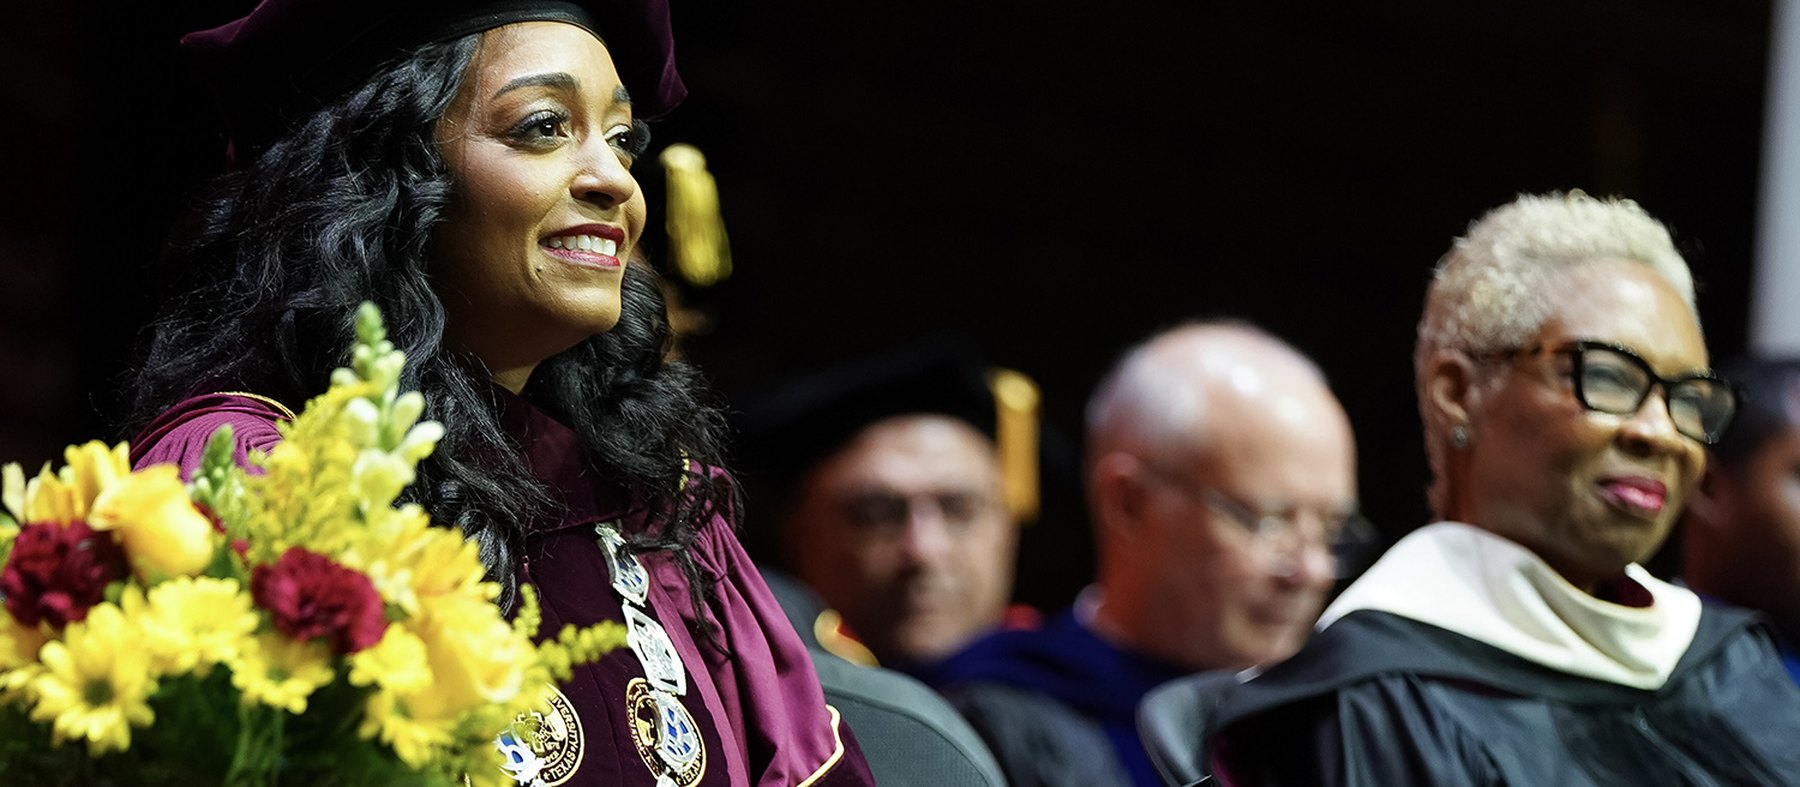
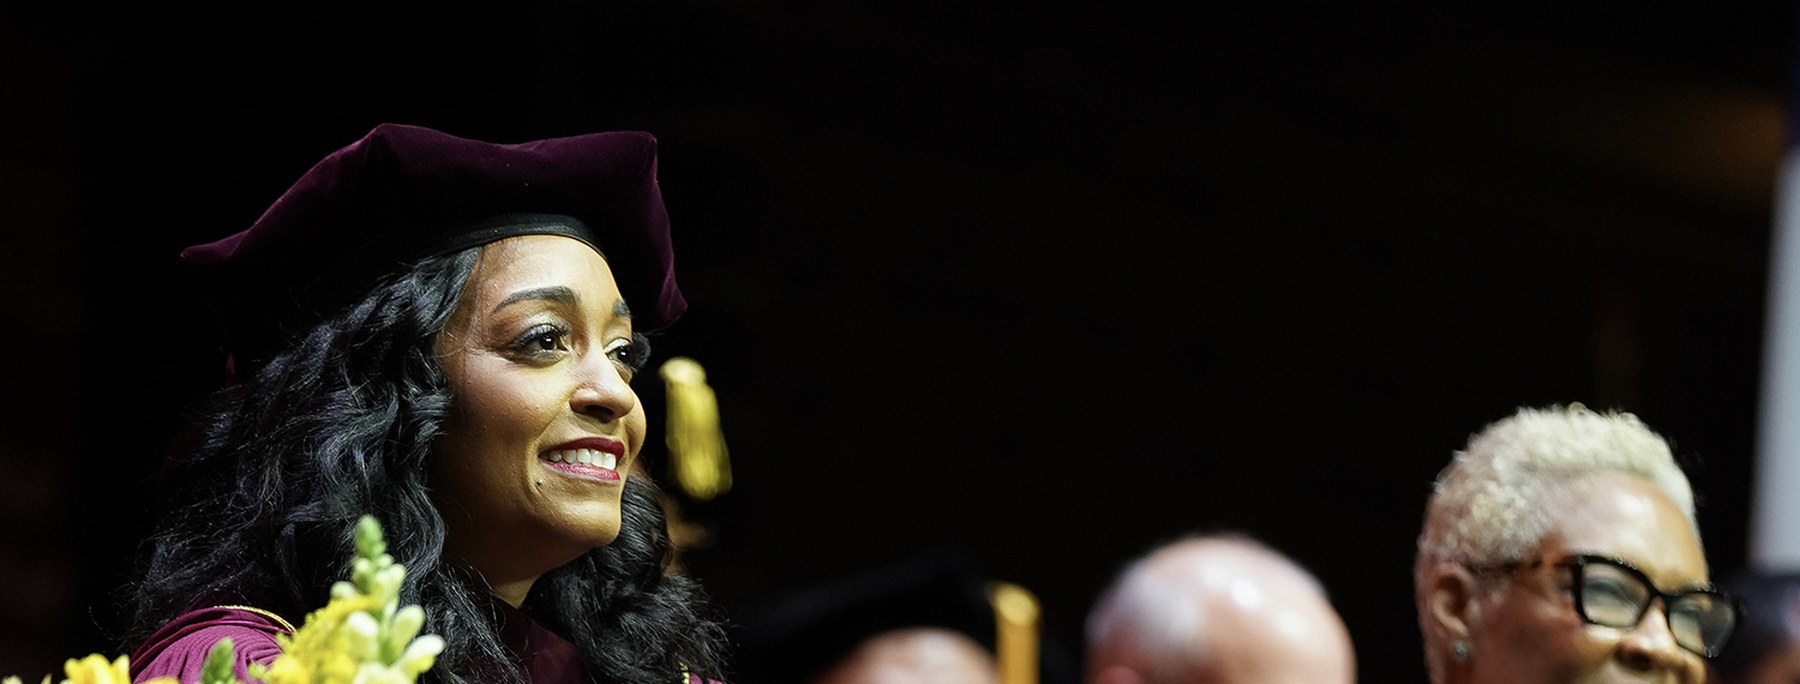
Remove background lettering, recrop the cover so she is not beheaded

diff --git a/index.html b/index.html
@@ -25,7 +25,6 @@
   --ease:cubic-bezier(.23,1,.32,1);
 
   /* one scale, ratios: ghost/display 2.9, display/head 2.09, head/sub 2.10, sub/body 1.46 */
-  --t-ghost:  clamp(4.5rem,22vw,21rem);
   --t-display:clamp(3.2rem,7.6vw,6.8rem);
   --t-head:   clamp(2rem,3.6vw,3.25rem);
   --t-sub:    clamp(1.25rem,1.6vw,1.55rem);
@@ -65,24 +64,17 @@ p:last-child{margin-bottom:0}
 section{position:relative;overflow:hidden;padding:var(--pv) var(--pad)}
 .wrap{max-width:1240px;margin:0 auto;position:relative;z-index:3}
 
-/* the monogram pattern lives in exactly two places, at two extreme scales */
-.pat-xl{position:absolute;inset:0;z-index:0;pointer-events:none;opacity:.05;
-  background:url("images/monogram-tile.png") center/900px auto repeat}
-
 /* ============ the house editorial spread ============
    oversized tone-on-tone word cut by one edge, full-bleed photo floated over it,
    white serif line centred on the image, monogram top centre, wordmark bottom centre. */
 .spread{--pv:clamp(3.4rem,8vh,5.5rem);background:var(--mahogany);color:var(--sand)}
-.ghost{position:absolute;z-index:1;font-family:var(--serif);font-weight:700;
-  font-size:var(--t-ghost);line-height:.72;letter-spacing:-.05em;white-space:nowrap;
-  color:rgba(255,250,235,.07);pointer-events:none;user-select:none}
 .mono-top{position:absolute;top:clamp(1rem,2.4vh,1.7rem);left:50%;transform:translateX(-50%);
   z-index:4;height:26px;width:auto;opacity:.9}
 .mark-bottom{position:absolute;bottom:clamp(1rem,2.4vh,1.7rem);left:50%;transform:translateX(-50%);
   z-index:4;height:24px;width:auto}
 .bleed{position:relative;z-index:2;width:calc(100% + 2 * var(--pad));
   margin-inline:calc(-1 * var(--pad));overflow:hidden}
-.bleed img{width:100%;height:100%;object-fit:cover}
+.bleed img{width:100%;height:100%;object-fit:cover;object-position:center 18%}
 .bleed figcaption{
   position:absolute;inset:0;display:grid;align-items:end;justify-items:center;
   padding:0 1.6rem clamp(1.6rem,4vw,3rem);text-align:center;
@@ -91,11 +83,10 @@ section{position:relative;overflow:hidden;padding:var(--pv) var(--pad)}
 }
 
 /* ---------- 1. cover ---------- */
-.cover .ghost{right:-6%;top:1.5%}
-.cover-head{position:relative;z-index:3;padding-top:clamp(1.6rem,4vh,2.6rem)}
+.cover .cover-head{position:relative;z-index:3;padding-top:clamp(1.6rem,4vh,2.6rem)}
 .cover h1{max-width:19ch}
 .cover h1 em{font-style:normal;color:var(--gold)}
-.cover-bleed{height:clamp(250px,32vw,430px);margin-top:clamp(1.6rem,4vh,2.6rem)}
+.cover-bleed{height:clamp(265px,34vw,505px);margin-top:clamp(1.6rem,4vh,2.6rem)}
 .cover-meta{position:relative;z-index:3;margin:clamp(1.2rem,3vh,1.9rem) 0 clamp(2.2rem,5vh,3.2rem);
   text-align:center;color:rgba(255,250,235,.62)}
 .cover-meta b{color:var(--gold)}
@@ -131,9 +122,7 @@ section{position:relative;overflow:hidden;padding:var(--pv) var(--pad)}
 .three-grid{display:grid;grid-template-columns:repeat(3,minmax(0,1fr));
   gap:clamp(1rem,2.4vw,2rem);margin-top:clamp(2rem,5vw,3rem)}
 .thing figure{position:relative;overflow:hidden;aspect-ratio:4/5;
-  border:1px solid rgba(102,1,0,.18);background:var(--sand)}
-.thing figure::before{content:"";position:absolute;inset:0;opacity:.07;
-  background:url("images/monogram-tile-maroon.png") center/120px auto repeat}
+  border:1px solid rgba(102,1,0,.18);background:#F6EFDD}
 .thing img{position:absolute;inset:0;width:100%;height:100%;object-fit:contain;padding:7%;
   transition:transform 1s var(--ease)}
 .thing figure.crop img{object-fit:cover;padding:0}
@@ -143,8 +132,7 @@ section{position:relative;overflow:hidden;padding:var(--pv) var(--pad)}
 
 /* ---------- 5. caesura ---------- */
 .caesura{--pv:clamp(2.4rem,6vh,4rem);background:var(--terra);color:var(--sand)}
-.caesura .ghost{left:-6%;bottom:1%}
-.caesura .bleed{height:clamp(300px,38vw,540px)}
+.caesura .caesura .bleed{height:clamp(300px,38vw,540px)}
 
 /* ---------- 6. the term ---------- */
 .term{--pv:clamp(4.6rem,12vh,8rem);background:var(--mahogany)}
@@ -254,7 +242,6 @@ html.no-js .rv{opacity:1;transform:none}
 }
 @media (max-width:640px){
   .three-grid{grid-template-columns:minmax(0,1fr)}
-  .pat-xl{background-size:420px auto}
   .cover-bleed{height:265px}
   .caesura .bleed{height:250px}
   .bleed figcaption{font-size:1.02rem;padding-bottom:1.05rem}
@@ -272,8 +259,6 @@ if(new URLSearchParams(location.search).has('static'))document.documentElement.c
 
 <!-- 1. COVER, house editorial spread -->
 <section class="spread cover">
-  <div class="pat-xl"></div>
-  <div class="ghost" aria-hidden="true">PRESIDENT</div>
   <img class="mono-top" src="images/ht-monogram-gold.png" alt="">
   <div class="wrap cover-head">
     <h1 class="display rv">No more<br><em>regrets</em>.</h1>
@@ -364,7 +349,6 @@ if(new URLSearchParams(location.search).has('static'))document.documentElement.c
 
 <!-- 5. CAESURA, house editorial spread -->
 <section class="spread caesura">
-  <div class="ghost" aria-hidden="true">PRESENCE</div>
   <img class="mono-top" src="images/ht-monogram-gold.png" alt="">
   <figure class="bleed rv">
     <img src="images/film-spread.jpg" alt="A graduate being hooded at commencement, hands pressed together">

diff --git a/proposal.html b/proposal.html
@@ -25,7 +25,6 @@
   --ease:cubic-bezier(.23,1,.32,1);
 
   /* one scale, ratios: ghost/display 2.9, display/head 2.09, head/sub 2.10, sub/body 1.46 */
-  --t-ghost:  clamp(4.5rem,22vw,21rem);
   --t-display:clamp(3.2rem,7.6vw,6.8rem);
   --t-head:   clamp(2rem,3.6vw,3.25rem);
   --t-sub:    clamp(1.25rem,1.6vw,1.55rem);
@@ -65,24 +64,17 @@ p:last-child{margin-bottom:0}
 section{position:relative;overflow:hidden;padding:var(--pv) var(--pad)}
 .wrap{max-width:1240px;margin:0 auto;position:relative;z-index:3}
 
-/* the monogram pattern lives in exactly two places, at two extreme scales */
-.pat-xl{position:absolute;inset:0;z-index:0;pointer-events:none;opacity:.05;
-  background:url("images/monogram-tile.png") center/900px auto repeat}
-
 /* ============ the house editorial spread ============
    oversized tone-on-tone word cut by one edge, full-bleed photo floated over it,
    white serif line centred on the image, monogram top centre, wordmark bottom centre. */
 .spread{--pv:clamp(3.4rem,8vh,5.5rem);background:var(--mahogany);color:var(--sand)}
-.ghost{position:absolute;z-index:1;font-family:var(--serif);font-weight:700;
-  font-size:var(--t-ghost);line-height:.72;letter-spacing:-.05em;white-space:nowrap;
-  color:rgba(255,250,235,.07);pointer-events:none;user-select:none}
 .mono-top{position:absolute;top:clamp(1rem,2.4vh,1.7rem);left:50%;transform:translateX(-50%);
   z-index:4;height:26px;width:auto;opacity:.9}
 .mark-bottom{position:absolute;bottom:clamp(1rem,2.4vh,1.7rem);left:50%;transform:translateX(-50%);
   z-index:4;height:24px;width:auto}
 .bleed{position:relative;z-index:2;width:calc(100% + 2 * var(--pad));
   margin-inline:calc(-1 * var(--pad));overflow:hidden}
-.bleed img{width:100%;height:100%;object-fit:cover}
+.bleed img{width:100%;height:100%;object-fit:cover;object-position:center 18%}
 .bleed figcaption{
   position:absolute;inset:0;display:grid;align-items:end;justify-items:center;
   padding:0 1.6rem clamp(1.6rem,4vw,3rem);text-align:center;
@@ -91,11 +83,10 @@ section{position:relative;overflow:hidden;padding:var(--pv) var(--pad)}
 }
 
 /* ---------- 1. cover ---------- */
-.cover .ghost{right:-6%;top:1.5%}
-.cover-head{position:relative;z-index:3;padding-top:clamp(1.6rem,4vh,2.6rem)}
+.cover .cover-head{position:relative;z-index:3;padding-top:clamp(1.6rem,4vh,2.6rem)}
 .cover h1{max-width:19ch}
 .cover h1 em{font-style:normal;color:var(--gold)}
-.cover-bleed{height:clamp(250px,32vw,430px);margin-top:clamp(1.6rem,4vh,2.6rem)}
+.cover-bleed{height:clamp(265px,34vw,505px);margin-top:clamp(1.6rem,4vh,2.6rem)}
 .cover-meta{position:relative;z-index:3;margin:clamp(1.2rem,3vh,1.9rem) 0 clamp(2.2rem,5vh,3.2rem);
   text-align:center;color:rgba(255,250,235,.62)}
 .cover-meta b{color:var(--gold)}
@@ -131,9 +122,7 @@ section{position:relative;overflow:hidden;padding:var(--pv) var(--pad)}
 .three-grid{display:grid;grid-template-columns:repeat(3,minmax(0,1fr));
   gap:clamp(1rem,2.4vw,2rem);margin-top:clamp(2rem,5vw,3rem)}
 .thing figure{position:relative;overflow:hidden;aspect-ratio:4/5;
-  border:1px solid rgba(102,1,0,.18);background:var(--sand)}
-.thing figure::before{content:"";position:absolute;inset:0;opacity:.07;
-  background:url("images/monogram-tile-maroon.png") center/120px auto repeat}
+  border:1px solid rgba(102,1,0,.18);background:#F6EFDD}
 .thing img{position:absolute;inset:0;width:100%;height:100%;object-fit:contain;padding:7%;
   transition:transform 1s var(--ease)}
 .thing figure.crop img{object-fit:cover;padding:0}
@@ -143,8 +132,7 @@ section{position:relative;overflow:hidden;padding:var(--pv) var(--pad)}
 
 /* ---------- 5. caesura ---------- */
 .caesura{--pv:clamp(2.4rem,6vh,4rem);background:var(--terra);color:var(--sand)}
-.caesura .ghost{left:-6%;bottom:1%}
-.caesura .bleed{height:clamp(300px,38vw,540px)}
+.caesura .caesura .bleed{height:clamp(300px,38vw,540px)}
 
 /* ---------- 6. the term ---------- */
 .term{--pv:clamp(4.6rem,12vh,8rem);background:var(--mahogany)}
@@ -254,7 +242,6 @@ html.no-js .rv{opacity:1;transform:none}
 }
 @media (max-width:640px){
   .three-grid{grid-template-columns:minmax(0,1fr)}
-  .pat-xl{background-size:420px auto}
   .cover-bleed{height:265px}
   .caesura .bleed{height:250px}
   .bleed figcaption{font-size:1.02rem;padding-bottom:1.05rem}
@@ -272,8 +259,6 @@ if(new URLSearchParams(location.search).has('static'))document.documentElement.c
 
 <!-- 1. COVER, house editorial spread -->
 <section class="spread cover">
-  <div class="pat-xl"></div>
-  <div class="ghost" aria-hidden="true">PRESIDENT</div>
   <img class="mono-top" src="images/ht-monogram-gold.png" alt="">
   <div class="wrap cover-head">
     <h1 class="display rv">No more<br><em>regrets</em>.</h1>
@@ -364,7 +349,6 @@ if(new URLSearchParams(location.search).has('static'))document.documentElement.c
 
 <!-- 5. CAESURA, house editorial spread -->
 <section class="spread caesura">
-  <div class="ghost" aria-hidden="true">PRESENCE</div>
   <img class="mono-top" src="images/ht-monogram-gold.png" alt="">
   <figure class="bleed rv">
     <img src="images/film-spread.jpg" alt="A graduate being hooded at commencement, hands pressed together">
